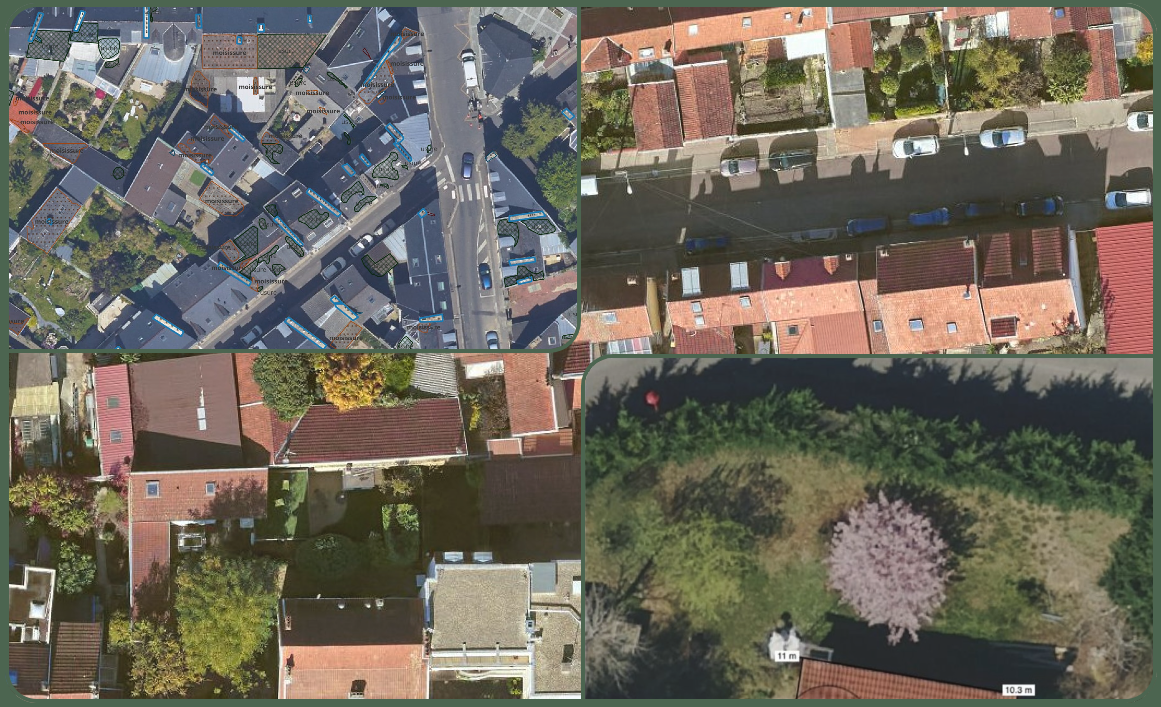
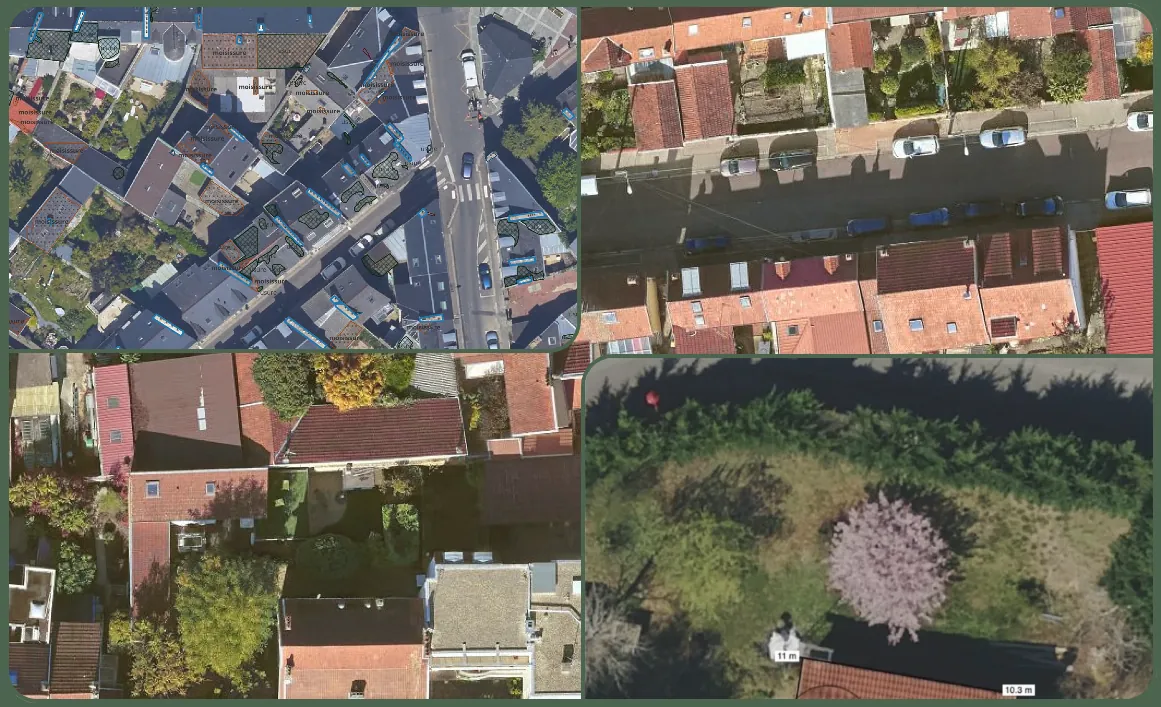
perf(seo): convert heavy images to WebP, resize oversized hero images, lazy-load below-the-fold images

diff --git a/src/pages/Collectivity/components/UseCaseItem2.jsx b/src/pages/Collectivity/components/UseCaseItem2.jsx
@@ -25,13 +25,13 @@ export function UseCaseItem2() {
         <aside>
           <div className="box-img-row">
             <div className="usecase-box-img">
-              <img src={LOM_1} alt={LOM_1} />
+              <img loading="lazy" src={LOM_1} alt={LOM_1} />
             </div>
             <div className="usecase-box-img">
-              <img src={LOM_2} alt={LOM_2} />
+              <img loading="lazy" src={LOM_2} alt={LOM_2} />
             </div>
             <div className="usecase-box-img">
-              <img src={LOM_3} alt={LOM_3} />
+              <img loading="lazy" src={LOM_3} alt={LOM_3} />
             </div>
           </div>
         </aside>
@@ -43,13 +43,13 @@ export function UseCaseItem2() {
         <aside>
           <div className="box-img-row">
             <div className="usecase-box-img">
-              <img src={LOM_4} alt={LOM_4} />
+              <img loading="lazy" src={LOM_4} alt={LOM_4} />
             </div>
             <div className="usecase-box-img" style={{ display: 'flex', justifyContent: 'center' }}>
-              <img src={LOM_5} alt={LOM_5} style={{ maxHeight: '250px' }} />
+              <img loading="lazy" src={LOM_5} alt={LOM_5} style={{ maxHeight: '250px' }} />
             </div>
             <div className="usecase-box-img">
-              <img src={LOM_6} alt={LOM_6} />
+              <img loading="lazy" src={LOM_6} alt={LOM_6} />
             </div>
           </div>
         </aside>
@@ -61,13 +61,13 @@ export function UseCaseItem2() {
         <aside>
           <div className="box-img-row">
             <div className="usecase-box-img">
-              <img src={LOM_7} alt={LOM_7} />
+              <img loading="lazy" src={LOM_7} alt={LOM_7} />
             </div>
             <div className="usecase-box-img" style={{ display: 'flex', justifyContent: 'center' }}>
-              <img src={LOM_8} alt={LOM_8} style={{ maxHeight: '250px' }} />
+              <img loading="lazy" src={LOM_8} alt={LOM_8} style={{ maxHeight: '250px' }} />
             </div>
             <div className="usecase-box-img">
-              <img src={LOM_9} alt={LOM_9} />
+              <img loading="lazy" src={LOM_9} alt={LOM_9} />
             </div>
           </div>
         </aside>
@@ -94,13 +94,13 @@ export function UseCaseItem2() {
                     <b className="logo-color">Geométrisation & contextualisation objet</b>
                   </div>
                   <div className="table-body-cell">
-                    <img src={TLOM_1} alt={TLOM_1} />
+                    <img loading="lazy" src={TLOM_1} alt={TLOM_1} />
                   </div>
                   <div className="table-body-cell">
-                    <img src={TLOM_3} alt={TLOM_3} />
+                    <img loading="lazy" src={TLOM_3} alt={TLOM_3} />
                   </div>
                   <div className="table-body-cell">
-                    <img src={TLOM_5} alt={TLOM_5} />
+                    <img loading="lazy" src={TLOM_5} alt={TLOM_5} />
                   </div>
                 </div>
                 <div className="offer__table-first__column usecase-table-column">
@@ -108,10 +108,10 @@ export function UseCaseItem2() {
                     <b className="logo-color">Risque visibilité (LOM)</b>
                   </div>
                   <div className="table-body-cell">
-                    <img src={TLOM_2} alt={TLOM_2} />
+                    <img loading="lazy" src={TLOM_2} alt={TLOM_2} />
                   </div>
                   <div className="table-body-cell">
-                    <img src={TLOM_4} alt={TLOM_4} />
+                    <img loading="lazy" src={TLOM_4} alt={TLOM_4} />
                   </div>
                   <div className="table-body-cell">
                     <p>AUCUNE RISQUE</p>

diff --git a/src/pages/Collectivity/components/UseCaseItem1.jsx b/src/pages/Collectivity/components/UseCaseItem1.jsx
@@ -23,13 +23,13 @@ export function UseCaseItem1() {
         <aside>
           <div className="box-img-row">
             <div className="usecase-box-img">
-              <img src={Zan1} alt={Zan1} />
+              <img loading="lazy" src={Zan1} alt={Zan1} />
             </div>
             <div className="usecase-box-img">
-              <img src={Zan2} alt={Zan2} />
+              <img loading="lazy" src={Zan2} alt={Zan2} />
             </div>
             <div className="usecase-box-img">
-              <img src={Zan3} alt={Zan3} />
+              <img loading="lazy" src={Zan3} alt={Zan3} />
             </div>
           </div>
         </aside>
@@ -41,13 +41,13 @@ export function UseCaseItem1() {
         <aside>
           <div className="box-img-row">
             <div className="usecase-box-img">
-              <img src={Zan4} alt={Zan4} />
+              <img loading="lazy" src={Zan4} alt={Zan4} />
             </div>
             <div className="usecase-box-img">
-              <img src={Zan5} alt={Zan5} />
+              <img loading="lazy" src={Zan5} alt={Zan5} />
             </div>
             <div className="usecase-box-img">
-              <img src={Zan6} alt={Zan6} />
+              <img loading="lazy" src={Zan6} alt={Zan6} />
             </div>
           </div>
         </aside>
@@ -71,13 +71,13 @@ export function UseCaseItem1() {
                     <b className="logo-color">Post vérification et validation humaine</b>
                   </div>
                   <div className="table-body-cell">
-                    <img src={TZan5} alt={TZan5} />
+                    <img loading="lazy" src={TZan5} alt={TZan5} />
                   </div>
                   <div className="table-body-cell">
-                    <img src={TZan6} alt={TZan6} />
+                    <img loading="lazy" src={TZan6} alt={TZan6} />
                   </div>
                   <div className="table-body-cell">
-                    <img src={TZan2} alt={TZan2} />
+                    <img loading="lazy" src={TZan2} alt={TZan2} />
                   </div>
                 </div>
                 <div className="offer__table-first__column usecase-table-column">
@@ -85,13 +85,13 @@ export function UseCaseItem1() {
                     <b className="logo-color">Geométrisation</b>
                   </div>
                   <div className="table-body-cell">
-                    <img src={TZan1} alt={TZan1} />
+                    <img loading="lazy" src={TZan1} alt={TZan1} />
                   </div>
                   <div className="table-body-cell">
-                    <img src={TZan3} alt={TZan3} />
+                    <img loading="lazy" src={TZan3} alt={TZan3} />
                   </div>
                   <div className="table-body-cell">
-                    <img src={TZan4} alt={TZan4} />
+                    <img loading="lazy" src={TZan4} alt={TZan4} />
                   </div>
                 </div>
                 <div className="offer__table-first__column usecase-table-column">

diff --git a/src/pages/Collectivity/components/UseCaseItem3.jsx b/src/pages/Collectivity/components/UseCaseItem3.jsx
@@ -4,9 +4,9 @@ import CRes1 from '../assets/img/CLIMAT_RESILIENCE/CLIMAT_RESILIENCE_1.png';
 import CRes2 from '../assets/img/CLIMAT_RESILIENCE/CLIMAT_RESILIENCE_2.png';
 import CRes3 from '../assets/img/CLIMAT_RESILIENCE/CLIMAT_RESILIENCE_3.png';
 import CRes4 from '../assets/img/CLIMAT_RESILIENCE/CLIMAT_RESILIENCE_4.png';
-import CRes5 from '../assets/img/CLIMAT_RESILIENCE/CLIMAT_RESILIENCE_5.png';
+import CRes5 from '../assets/img/CLIMAT_RESILIENCE/CLIMAT_RESILIENCE_5.webp';
 import CRes6 from '../assets/img/CLIMAT_RESILIENCE/CLIMAT_RESILIENCE_6.jpg';
-import CRes7 from '../assets/img/CLIMAT_RESILIENCE/CLIMAT_RESILIENCE_7.jpg';
+import CRes7 from '../assets/img/CLIMAT_RESILIENCE/CLIMAT_RESILIENCE_7.webp';
 
 export function UseCaseItem3() {
   return (
@@ -18,13 +18,13 @@ export function UseCaseItem3() {
         <aside>
           <div className="box-img-row">
             <div className="usecase-box-img">
-              <img src={CRes1} alt={CRes1} />
+              <img loading="lazy" src={CRes1} alt={CRes1} />
             </div>
             <div className="usecase-box-img">
-              <img src={CRes2} alt={CRes2} />
+              <img loading="lazy" src={CRes2} alt={CRes2} />
             </div>
             <div className="usecase-box-img">
-              <img src={CRes3} alt={CRes3} />
+              <img loading="lazy" src={CRes3} alt={CRes3} />
             </div>
           </div>
         </aside>
@@ -36,13 +36,13 @@ export function UseCaseItem3() {
         <aside>
           <div className="box-img-row">
             <div className="usecase-box-img">
-              <img src={CRes4} alt={CRes4} />
+              <img loading="lazy" src={CRes4} alt={CRes4} />
             </div>
             <div className="usecase-box-img" style={{ display: 'flex', justifyContent: 'center' }}>
-              <img src={CRes5} alt={CRes5} style={{ maxHeight: '250px' }} />
+              <img loading="lazy" src={CRes5} alt={CRes5} style={{ maxHeight: '250px' }} />
             </div>
             <div className="usecase-box-img">
-              <img src={CRes6} alt={CRes6} />
+              <img loading="lazy" src={CRes6} alt={CRes6} />
             </div>
           </div>
         </aside>
@@ -54,7 +54,7 @@ export function UseCaseItem3() {
         <aside>
           <div className="box-img-row">
             <div className="usecase-box-img species_mapping">
-              <img src={CRes7} alt={CRes7} />
+              <img loading="lazy" src={CRes7} alt={CRes7} />
             </div>
             <div className="box-img-col">
               <ol className="zan_order-list">

diff --git a/src/pages/Craftsman/Craftsman.tsx b/src/pages/Craftsman/Craftsman.tsx
@@ -7,7 +7,7 @@ import { bookYourDemoUrl } from '@pages/Advertising-Campaign/components';
 import './assets/css/couvreurs.css';
 
 const MAQUETTE_IMG = '/assets/images/slot-image-maquette-3d.jpg';
-const ANALYSE_IMG = '/assets/images/slot-image-2-maquette-3d.jpg';
+const ANALYSE_IMG = '/assets/images/slot-image-2-maquette-3d.webp';
 
 /* ------------------------------------------------------------------ */
 /* Icônes SVG réutilisables                                            */
@@ -525,7 +525,7 @@ export const Craftsman = () => {
               <div className="marquee-track">
                 {[...partnerLogos, ...partnerLogos].map((logo, i) => (
                   <div className="logo-chip" key={`t1-${i}`} aria-hidden={i >= partnerLogos.length}>
-                    <img src={logo.src} alt={logo.alt} />
+                    <img loading="lazy" src={logo.src} alt={logo.alt} />
                   </div>
                 ))}
               </div>
@@ -614,7 +614,11 @@ export const Craftsman = () => {
           </div>
 
           <div className="maquette-wrap">
-            <img src={MAQUETTE_IMG} alt="Maquette 3D BIRDIA — pans détaillés avec surfaces, pentes, faîtage, rives, égouts et noues mesurés au centimètre" />
+            <img
+              loading="lazy"
+              src={MAQUETTE_IMG}
+              alt="Maquette 3D BIRDIA — pans détaillés avec surfaces, pentes, faîtage, rives, égouts et noues mesurés au centimètre"
+            />
           </div>
         </section>
 
@@ -631,7 +635,7 @@ export const Craftsman = () => {
               <div className="marquee-track" style={{ animationDirection: 'reverse' }}>
                 {[...partnerLogos, ...partnerLogos].map((logo, i) => (
                   <div className="logo-chip" key={`t2-${i}`} aria-hidden={i >= partnerLogos.length}>
-                    <img src={logo.src} alt={logo.alt} />
+                    <img loading="lazy" src={logo.src} alt={logo.alt} />
                   </div>
                 ))}
               </div>
@@ -666,7 +670,7 @@ export const Craftsman = () => {
             </div>
 
             <div className="tech-visual">
-              <img src={ANALYSE_IMG} alt="Rapport d'analyse de toiture BIRDIA — vue HD, maquette Lidar 3D et détection des dégradations" />
+              <img loading="lazy" src={ANALYSE_IMG} alt="Rapport d'analyse de toiture BIRDIA — vue HD, maquette Lidar 3D et détection des dégradations" />
             </div>
           </div>
         </section>

diff --git a/src/common/components/solution/solution.tsx b/src/common/components/solution/solution.tsx
@@ -1,15 +1,15 @@
 import { FC } from 'react';
 
 import { ImageGallery } from '../ImageGallery';
-import image1 from './assets/images/Image_1.png';
-import image2 from './assets/images/Image_2.png';
-import image3 from './assets/images/Image_3.png';
-import image4 from './assets/images/Image_4.png';
-import image5 from './assets/images/Image_5.png';
-import image6 from './assets/images/Image_6.png';
-import image7 from './assets/images/Image_7.png';
-import image8 from './assets/images/Image_8.png';
-import image9 from './assets/images/Image_9.png';
+import image1 from './assets/images/Image_1.webp';
+import image2 from './assets/images/Image_2.webp';
+import image3 from './assets/images/Image_3.webp';
+import image4 from './assets/images/Image_4.webp';
+import image5 from './assets/images/Image_5.webp';
+import image6 from './assets/images/Image_6.webp';
+import image7 from './assets/images/Image_7.webp';
+import image8 from './assets/images/Image_8.webp';
+import image9 from './assets/images/Image_9.webp';
 
 const IMAGES = [image1, image2, image3, image4, image5, image6, image7, image8, image9];
 

diff --git a/src/pages/Craftsman/components/Offer/TableOffer/TableOffer.tsx b/src/pages/Craftsman/components/Offer/TableOffer/TableOffer.tsx
@@ -52,7 +52,7 @@ export function TableOffer() {
       </div>
       <div className="offer__table-column">
         <div className="offer__table-header">
-          <img src={Essentiel} alt="essentiel" className="offer-image" />
+          <img loading="lazy" src={Essentiel} alt="essentiel" className="offer-image" />
           <h2>L'Essentiel</h2>
           <div className="offer__category">
             <h3>Professionnel de la toiture</h3>
@@ -74,7 +74,7 @@ export function TableOffer() {
       </div>
       <div className="offer__table-column">
         <div className="offer__table-header">
-          <img src={Developpement} alt="essentiel" className="offer-image" />
+          <img loading="lazy" src={Developpement} alt="essentiel" className="offer-image" />
           <h2>Le Sur-mesure</h2>
           <div className="offer__category">
             <h3>Professionnel du bâti (Foncière, Diagnostiqueur, OPH, etc)</h3>

diff --git a/src/pages/template/sections/RoofDiagnostics.tsx b/src/pages/template/sections/RoofDiagnostics.tsx
@@ -7,7 +7,7 @@ import { Box, Typography } from '@mui/material';
 
 import { GenInput } from '../components/GenInput';
 import { RoofDiagnosticsStyle } from './styles';
-import heroImage from '/assets/images/hero/compiegne.jpg';
+import heroImage from '/assets/images/hero/compiegne.webp';
 
 export const RoofDiagnostics = () => {
   const location = useLocation();
@@ -66,7 +66,7 @@ export const RoofDiagnostics = () => {
           {!isDiagnosticAvantVente && (
             <Box className="image-container">
               {location.pathname !== '/templateGenerator' ? (
-                <img src={imageUrl} alt="" />
+                <img loading="lazy" src={imageUrl} alt="" />
               ) : (
                 <GenInput inputComponent="input" inputProps={{ accept: 'image/*' } as any} name="roofDiagnostics.image" type="file" />
               )}

diff --git a/src/pages/Insurance/components/Headline.tsx b/src/pages/Insurance/components/Headline.tsx
@@ -4,10 +4,10 @@ import { PALETTE_COLORS } from '@/config/theme';
 import { Extension, Handshake, Search, Shield, SmartToy, Thunderstorm } from '@mui/icons-material';
 import { Box, Card, CardContent, Typography } from '@mui/material';
 
-import Headline1 from '../assets/img/Headlines/1.jpg';
-import Headline2 from '../assets/img/Headlines/2.jpg';
-import Headline3 from '../assets/img/Headlines/3.jpg';
-import Headline4 from '../assets/img/Headlines/4.jpg';
+import Headline1 from '../assets/img/Headlines/1.webp';
+import Headline2 from '../assets/img/Headlines/2.webp';
+import Headline3 from '../assets/img/Headlines/3.webp';
+import Headline4 from '../assets/img/Headlines/4.webp';
 import Headline5 from '../assets/img/Headlines/5.jpg';
 import Headline6 from '../assets/img/Headlines/6.jpg';
 

diff --git a/src/pages/home/components/target-item.tsx b/src/pages/home/components/target-item.tsx
@@ -46,7 +46,7 @@ export const TargetItem: FC<{ target: TargetType }> = ({ target }) => {
         {target.description}
       </Box>
       <Box sx={{ width: '100%', mt: 5 }}>
-        <img style={{ width: '100%', borderRadius: '30px' }} src={target.img} alt={target.title} title={target.title} />
+        <img loading="lazy" style={{ width: '100%', borderRadius: '30px' }} src={target.img} alt={target.title} title={target.title} />
         <LinkButton sx={{ mt: 2, px: 8, width: 'fit-content', fontSize: '1.3rem', display: 'block', mx: 'auto' }} to={target.link}>
           Découvrir
         </LinkButton>

diff --git a/src/pages/home/components/solution.tsx b/src/pages/home/components/solution.tsx
@@ -111,7 +111,7 @@ export const Solution = () => {
           </FlexBox>
         </Box>
         <FlexBox sx={{ minWidth: '400px', flex: 1, mt: { xs: 5, md: 0 }, justifyContent: { xs: 'center', lg: 'end' } }}>
-          <img src={'/assets/images/b-image.webp'} alt="BIRDIA" style={{ width: '80%', maxWidth: md ? '400px' : '300px' }} />
+          <img loading="lazy" src={'/assets/images/b-image.webp'} alt="BIRDIA" style={{ width: '80%', maxWidth: md ? '400px' : '300px' }} />
         </FlexBox>
       </FlexBox>
     </Box>

diff --git a/src/pages/template/json-data/diagnostic-toiture-particulier.ts b/src/pages/template/json-data/diagnostic-toiture-particulier.ts
@@ -9,7 +9,7 @@ export default {
       '🤖 <strong>Diagnostic automatique par IA :</strong> identifiez les risques (tuiles cassées, mousse, affaissements…) sans aucun déplacement.',
       '🛠 <strong>Un professionnel près de chez vous :</strong> un couvreur local de confiance vous accompagne pour prévenir les dégâts et engager les bons travaux.',
     ],
-    image: '/assets/images/hero/analyse-report.png',
+    image: '/assets/images/hero/analyse-report.webp',
   },
   testimonials: [
     {

diff --git a/src/pages/home/components/partners.tsx b/src/pages/home/components/partners.tsx
@@ -141,7 +141,7 @@ export const Partners: FC<PartnersProps> = ({ partnersFromJson }) => {
                   sx={{ mb: 2 }}
                 />
               ) : (
-                <img src={imageUrl} alt={partner.alt} style={{ maxWidth: '300px', maxHeight: '150px' }} />
+                <img loading="lazy" src={imageUrl} alt={partner.alt} style={{ maxWidth: '300px', maxHeight: '150px' }} />
               )}
             </Box>
           );
